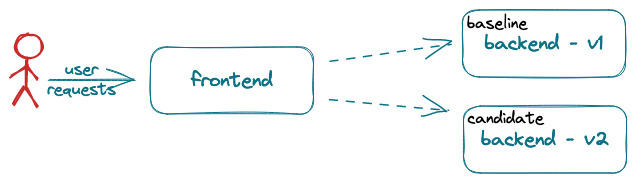
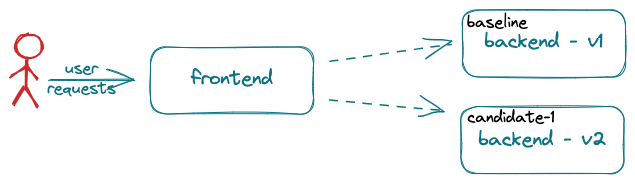
Clarified A/B/n tutorial and user guide (#60)
* clarified abn documentation

* clarified abn documentation

---------

diff --git a/docs/user-guide/topics/ab_testing.md b/docs/user-guide/topics/ab_testing.md
@@ -10,21 +10,28 @@ A/B/n testing relies on business metrics typically computed by a frontend, user-
 <img alt-text="A/B/n experiment" src="../images/abn.png" />
 </p>
 
-Metric values often depend on one or more interactions with backend (not user-facing) components. To run an A/B/n test on a backend component, it is necessary to be able to associate a metric value (computed by the frontend component) to the version of the backend component that contributed to its computation. The challenge is that the frontend component often does not know which version of the backend component processed a given request. To address this challenge, Iter8 introduces an A/B/n SDK which provides a frontend component with two APIs:
+Metric values often depend on one or more interactions with backend (not user-facing) application components. To run an A/B/n test on a backend component, it is necessary to be able to associate a metric value (computed by the frontend component) to the version of the backend component that contributed to its computation. 
+The challenge is that the frontend component often does not know which version of the backend component processed a given request. To address this challenge, Iter8 introduces an A/B/n SDK. 
 
-a. **Lookup()** - Identifies a version of a backend component to send a request to. Given a user session, *Lookup()* returns a track identifier that can be used to route requests. So long as there are no changes in configuration, the track identifier (and hence route) will be same for the same user session, guaranteeing session stickiness. Note that the track identifier is not a version identifier; the version associated with a track changes over time as the versions being tested change.
+The Iter8 SDK introduces the concept of a *track identifier*. A track is a logical version of a Kubernetes application. The set of valid track identifiers is fixed over the lifetime of the application. The version of the application associated with a given track identifier changes over time as new versions are developed. For a given application, the set of track identifiers is fixed; the number of track identifiers determines how many versions of the application can be deployed/tested at the same time. Because the set of track identifiers is fixed, they can be used to configure routing to the application.
 
-b. **WriteMetric()** - Associates a metric value with a backend component. Given a user session, *WriteMetric()* identifies the implementing version and writes the metric to a metric store associated with that version. By default, Iter8 uses a Kubernetes secret to store the metrics. The [abnmetrics](../tasks/abnmetrics.md) experiment task can be used to read the metrics stored by *WriteMetric()*.
+The Iter8 SDK provides two APIs to frontend application components:
 
-The Iter8 SDK is implemented using gRPC. The formal definition of the API is in this [protocol buffer document](https://raw.githubusercontent.com/iter8-tools/docs/main/samples/abn-sample/frontend/abn.proto).
+a. **Lookup()** - Given an application and user session, returns a track identifier. So long as there are no changes in configuration, the track identifier (and hence the route) will be same for the same user session, guaranteeing session stickiness.
+
+b. **WriteMetric()** -  Given an application, a user session, a metric name its value, *WriteMetric()* associates the metric value with the appropriate version of the application. 
 
 ## Configuring the Iter8 A/B/n Service
 
-An Iter8 A/B/n service implements the gRPC API. This service is configured, at deployment, to watch the resource objects for a set of applications so that it can identify new versions and their mapping to a track label.
+An Iter8 A/B/n service implements the gRPC API. This service is configured, at deployment, to watch the resource objects for a set of applications so that it can identify new versions and their mapping to a track identifier.
 
 To watch for versions of an application, specify the list of the types of the objects that must be present and ready for a version to be considered ready:
 
 `--set "apps.<namespace>.<application_name>.resources={<comma separated list resoure types>}"`
+
+For example, to watch for versions of an application `my_app` in the namespace `my_namespace` where each version is composed of a Kubernetes service object and a Kubernetes deployment object, specify:
+
+`--set "apps.my_namespace.my_app.resources={service,deployment}"`
 
 Valid resource types are corresponding Kubernetes resource types (specified by group, version and resource) are listed below. When the required condition value is `true`, the resource object is considered ready.
 
@@ -34,27 +41,25 @@ Valid resource types are corresponding Kubernetes resource types (specified by g
 | deployment | apps/v1 deployments | Available |
 | ksvc | serving.knative.dev/v1 services | Ready |
 
-If more than one candidate version can be deployed at the same time, specify the maximum number using:
+If more than one candidate version can be deployed at the same time, specify the maximum number using `maxNumCandidates`:
 
 `--set apps.<namespace>.<application_name>.maxNumCandidates=<number>`
 
 From the above configuration, Iter8 infers the names of the expected resource objects using these assumptions:
 
+- The baseline track identifier is the application name
+- Track identifiers associated with candidate versions are of the form `<application_name>-candidate-<index>`
 - All resource objects for all versions are deployed in the same namespace
 - There is only 1 resource object of a given type in each version
-- All objects in the baseline version are named using only the application name
-- All objects in a candidate version are named as `<application_name>-candidate-<index>` where index is 1, 2, etc.
-- The baseline track label is the name of the application
-- Candidate track labels are of the form `<application_name>-candidate-<index>`
+- The name of each object in the version associated with the baseline track is the application name
+- The name of each object in the version associate with a candidate track is of the form  `<application_name>-candidate-<index>` where index is 1, 2, etc.
 
 ## Deployment Time Configuration of Backend Components
 
-As versions of the backend component are deployed or deleted, the Iter8 A/B/n service maintains a mapping of track label to available version. Using this run time mapping it is then able to respond appropriately to *Lookup()* and *WriteMetric()* requests.
+As versions of the backend component are deployed or deleted, the Iter8 A/B/n service maintains a mapping of track identifier to available version. Using this mapping it is then able to respond appropriately to *Lookup()* and *WriteMetric()* requests.
 
 To build and maintain it's mapping, the A/B/n service watches the resource objects specified as part of the A/B/n service configuration (see above). 
-In particular, the configuration requires that the Kubernetes objects comprising the backend component adhere to a naming convention: all Kubernetes objects that comprise the new version deployed for a particular track should be named using the track label (ie, `<application_name>-candidate-<index>`) and should have the label `app.kubernetes.io/version` set to the version label.
-
-For example, for an application `foo` where we will test up to 2 candidate versions at a time, the tracks will be `foo`, `foo-candidate-1`, and `foo-candidate-2`. To deploy a candidate version `ver` as track `foo-candidate-2`, the resource objects must all be named `foo-candidate-2` and have label `app.kubernetes.io/version: ver`.
+In particular, the configuration requires that the Kubernetes objects comprising the backend component adhere to the specified naming convention. Further, they should have the label `app.kubernetes.io/version` set to the version identifier.
 
 ## Developing Frontend Components: Using the SDK
 
@@ -62,10 +67,10 @@ The basic steps to author a frontend application component using the Iter8 SDK a
 
 ### Use/Import language specific libraries
 
-The gRPC protocol buffer definition is used to generate language specific implementation. These files can be used directly or packaged and imported as a library. As examples, the Node.js sample uses manually generated files directly. The Go sample imports the library provided by the core Iter8 implementation. In addition to the API specific methods, some general gRPC libraries are required.
+The gRPC protocol buffer definition is used to generate language specific implementation. These files can be used directly or packaged and imported as a library. As examples, the [Node.js sample](https://github.com/iter8-tools/docs/tree/main/samples/abn-sample/frontend/node) uses manually generated files directly. On the other hand, the [Go sample](https://github.com/iter8-tools/docs/tree/main/samples/abn-sample/frontend/go) imports the library provided by the core Iter8 service implementation. In addition to the API specific methods, some general gRPC libraries are required.
 
 === "Node.js"
-    The manually generated node files [`abn_pd.js`](https://raw.githubusercontent.com/iter8-tools/docs/main/samples/abn-sample/frontend/node/abn_pb.js) and [`abn_grpc_pb.js`](https://raw.githubusercontent.com/iter8-tools/docs/main/samples/abn-sample/frontend/node/abn_grpc_pb.js) used in the sample application can be copied and used without modification in other projects.
+    The manually generated node files [`abn_pd.js`](https://raw.githubusercontent.com/iter8-tools/docs/main/samples/abn-sample/frontend/node/abn_pb.js) and [`abn_grpc_pb.js`](https://raw.githubusercontent.com/iter8-tools/docs/main/samples/abn-sample/frontend/node/abn_grpc_pb.js) used in the sample application can be copied and used without modification.
 
     ```javascript
     var grpc = require('@grpc/grpc-js');
@@ -106,7 +111,7 @@ Instantiate a client to the Iter8 A/B/n service:
 
 ### Define routing
 
-Track identifiers are mapped to a static set of endpoints. One approach is to maintain a map from track label to endpoint:
+Track identifiers are mapped to a static set of endpoints. One approach is to maintain a map from track identifier to endpoint:
 
 === "Node.js"
     ```javascript
@@ -126,7 +131,7 @@ Track identifiers are mapped to a static set of endpoints. One approach is to ma
 
 ### Using *Lookup()*
 
-Given a user session identifier, *Lookup()* returns a track identifier that can be used to route requests. In code sample below, the user session identifier is assumed to be passed in the `X-User` header of user requests. The track identifier is used as an index to the `trackToRoute` map defined above. A default is used if the call to *Lookup* fails for any reason.
+Given a user session identifier, *Lookup()* returns a track identifier that can be used to route requests. In code sample below, the user session identifier is assumed to be passed in the `X-User` header of user requests. The track identifier is used as an index to the `trackToRoute` map defined above. A default is used if the call to *Lookup()* fails for any reason.
 
 === "Node.js"
     ```javascript
@@ -172,7 +177,7 @@ Given a user session identifier, *Lookup()* returns a track identifier that can 
 
 ### Using *WriteMetric()*
 
-As an example, a single metric named *sample_metric* is assigned a random value between 0 and 100 and written to the metric store.
+As an example, a single metric named *sample_metric* is assigned a random value between 0 and 100 and written.
 
 === "Node.js"
     ```javascript

diff --git a/docs/tutorials/abn/abn.md b/docs/tutorials/abn/abn.md
@@ -4,22 +4,7 @@ template: main.html
 
 # A/B Experiments
 
-A/B testing an application's backend component is challenging.
-A/B testing typically relies on business metrics computed by a frontend, user-facing, service.
-Metric values often depend on one or more interactions with backend (not user-facing) components.
-To A/B test a backend component, it is necessary to be able to associate a metric value (computed by the frontend) to the version of the backend component that contributed to its computation.
-The challenge is that the frontend service often does not know which version of the backend component processed a given request.
-
-To address this challenge, Iter8 introduces an A/B/n SDK which provides a frontend service with two APIs:
-
-a. **Lookup()** - identifies a version of a backend component to send a request to
-
-b. **WriteMetric()** - associates a metric with a backend component
-
-This SDK, implemented using gRPC, can be used from a number of frontend implementation languages including *Node.js*, *Python*, *Ruby*, and *Go*, among others. Details of the Iter8 SDK are documented in the [gRPC protoc file](https://github.com/iter8-tools/iter8/blob/v0.13.0/abn/grpc/abn.proto).
-
-This tutorial describes an A/B testing experiment for a backend component.
-Example implementations of frontend components are provided in *Node.js* and *Go*.
+This tutorial describes an [A/B testing](../../user-guide/topics/ab_testing.md) experiment for a backend component.
 
 <p align='center'>
 <img alt-text="A/B/n experiment" src="../images/abn.png" />
@@ -32,7 +17,7 @@ Example implementations of frontend components are provided in *Node.js* and *Go
  
 ## Launch Iter8 A/B/n service
 
-Deploy the Iter8 A/B/n service. When deploying the service, specify which Kubernetes resources to watch for each application. To watch for versions of the *backend* application in the *default* namespace, configure the service to watch for service and deployment resources:
+Deploy the Iter8 A/B/n service. When deploying the service, specify which Kubernetes resource types to watch for each application. To watch for versions of the *backend* application in the *default* namespace, configure the service to watch for Kubernetes service and deployment resources:
 
 ```shell
 helm install --repo https://iter8-tools.github.io/hub iter8-abn abn \
@@ -42,17 +27,20 @@ helm install --repo https://iter8-tools.github.io/hub iter8-abn abn \
 ??? warn "Assumptions"
     To simplify specification, Iter8 assumes certain conventions:
 
-    - resources of all versions are deployed to the same namespace
-    - there is only one resource of each resource type among the resources of a version
-    - all resources that comprise the baseline version are named as: _&lt;application\_name&gt;_
-    - all resources that comprise the i<sup>th</sup> candidate version are named as: _&lt;application\_name&gt;-candidate-&lt;i&gt;_
+    - The baseline track identifier is the application name
+    - Track identifiers associated with candidate versions are of the form `<application_name>-candidate-<index>`
+    - All resource objects for all versions are deployed in the same namespace
+    - There is only 1 resource object of a given type in each version
+    - The name of each object in the version associated with the baseline track is the application name
+    - The name of each object in the version associate with a candidate track is of the form  `<application_name>-candidate-<index>` where index is 1, 2, etc.
+
 
 ## Deploy the sample application
 
 Deploy both the frontend and backend components of the application as described in each tab:
 
 === "frontend"
-    Install the frontend service using an implementation in the language of your choice:
+    Install the frontend component using an implementation in the language of your choice:
 
     === "node"
         ```shell
@@ -66,10 +54,10 @@ Deploy both the frontend and backend components of the application as described 
         kubectl expose deployment frontend --name=frontend --port=8090
         ```
     
-    The frontend service is implemented to call **Lookup()** before each call to the backend service. It sends its request to the recommended backend service.
+    The frontend component is implemented to call *Lookup()* before each call to the backend component. The frontend componet uses the returned track identifier to route the request to a version of the backend component.
 
 === "backend"
-    Deploy version *v1* of the *backend* component as track *backend*.
+    Deploy version *v1* of the *backend* component, associating it with the track identifier *backend*.
 
     ```shell
     kubectl create deployment backend --image=iter8/abn-sample-backend:0.13-v1
@@ -78,11 +66,9 @@ Deploy both the frontend and backend components of the application as described 
     kubectl expose deployment backend --name=backend --port=8091
     ```
 
-Before calling the backend, the frontend uses *Lookup()* to identify the track to send requests to. Since there is only one version of the backend deployed, all requests will be sent to it.
-
 ## Generate load
 
-Generate load. In separate shells, port-forward requests to the frontend service and generate load for multiple users.  For example:
+Generate load. In separate shells, port-forward requests to the frontend component and generate load for multiple users.  A [script](https://raw.githubusercontent.com/iter8-tools/docs/main/samples/abn-sample/generate_load.sh) is provided to do this. To use it:
     ```shell
     kubectl port-forward service/frontend 8090:8090
     ```
@@ -90,11 +76,9 @@ Generate load. In separate shells, port-forward requests to the frontend service
     curl -s https://raw.githubusercontent.com/iter8-tools/docs/main/samples/abn-sample/generate_load.sh | sh -s --
     ```
 
-Note that the the names `foo` and `foobar` are examples. They may be mapped to the same track label -- since we are using 
-
 ## Deploy a candidate version
 
-Deploy version *v2* of the *backend* component as track *backend-candidate-1*.
+Deploy version *v2* of the *backend* component, associating it with the track identifier *backend-candidate-1*.
 
 ```shell
 kubectl create deployment backend-candidate-1 --image=iter8/abn-sample-backend:0.13-v2
@@ -103,8 +87,8 @@ kubectl label deployment backend-candidate-1 app.kubernetes.io/version=v2
 kubectl expose deployment backend-candidate-1 --name=backend-candidate-1 --port=8091
 ```
 
-Until the candidate version is ready; that is, until all expected resources are deployed and available, calls to *Lookup()* will continue to return only the *backend* track.
-Once the candidate version is ready, *Lookup()* will return both tracks so that requests will be distributed between them.
+Until the candidate version is ready; that is, until all expected resources are deployed and available, calls to *Lookup()* will return only the *backend* track identifier.
+Once the candidate version is ready, *Lookup()* will return both track identifiers so that requests will be distributed between versions.
 
 ## Launch experiment
 
@@ -117,7 +101,7 @@ iter8 k launch \
 ```
 
 ??? note "About this experiment"
-    This experiment periodically (in this case, once a minute) reads the `abn` metrics associated with the *backend* application component in the *default* namespace. These metrics are written by the frontend service using the *WriteMetric()* interface as a part of processing user requests.
+    This experiment periodically (in this case, once a minute) reads the `abn` metrics associated with the *backend* application component in the *default* namespace. These metrics are written by the frontend component using the *WriteMetric()* interface as a part of processing user requests.
 
 ## Inspect experiment report
 
@@ -149,9 +133,9 @@ iter8 k report
     abn/sample_metric/min    | 0.00         | 1.00
     abn/sample_metric/stddev | 28.52        | 31.91
     ```
-The output allows you to compare the versions against each other and select a winner. Since the experiment runs periodically, you should expect the values in the report to change over time.
+The output allows you to compare the versions against each other and select a winner. Since the experiment runs periodically, the values in the report will change over time.
 
-Once a winner is identified, the experiment can be terminated and the winner can be promoted and the candidate versions can be deleted.
+Once a winner is identified, the experiment can be terminated, the winner can be promoted, and the candidate version(s) can be deleted.
 
 To delete the experiment:
 
@@ -168,14 +152,11 @@ kubectl delete deployment backend-candidate-1
 kubectl delete service backend-candidate-1
 ```
 
-Update the version of the baseline track:
+Update the version associated with the baseline track identifier *backend*:
 
 ```shell
 kubectl set image deployment/backend abn-sample-backend=iter8/abn-sample-backend:0.13-v2
 kubectl label --overwrite deployment/backend app.kubernetes.io/version=v2
-
-# no change in service
-# kubectl expose deployment backend --name=backend --port=8091
 ```
 
 ## Cleanup
